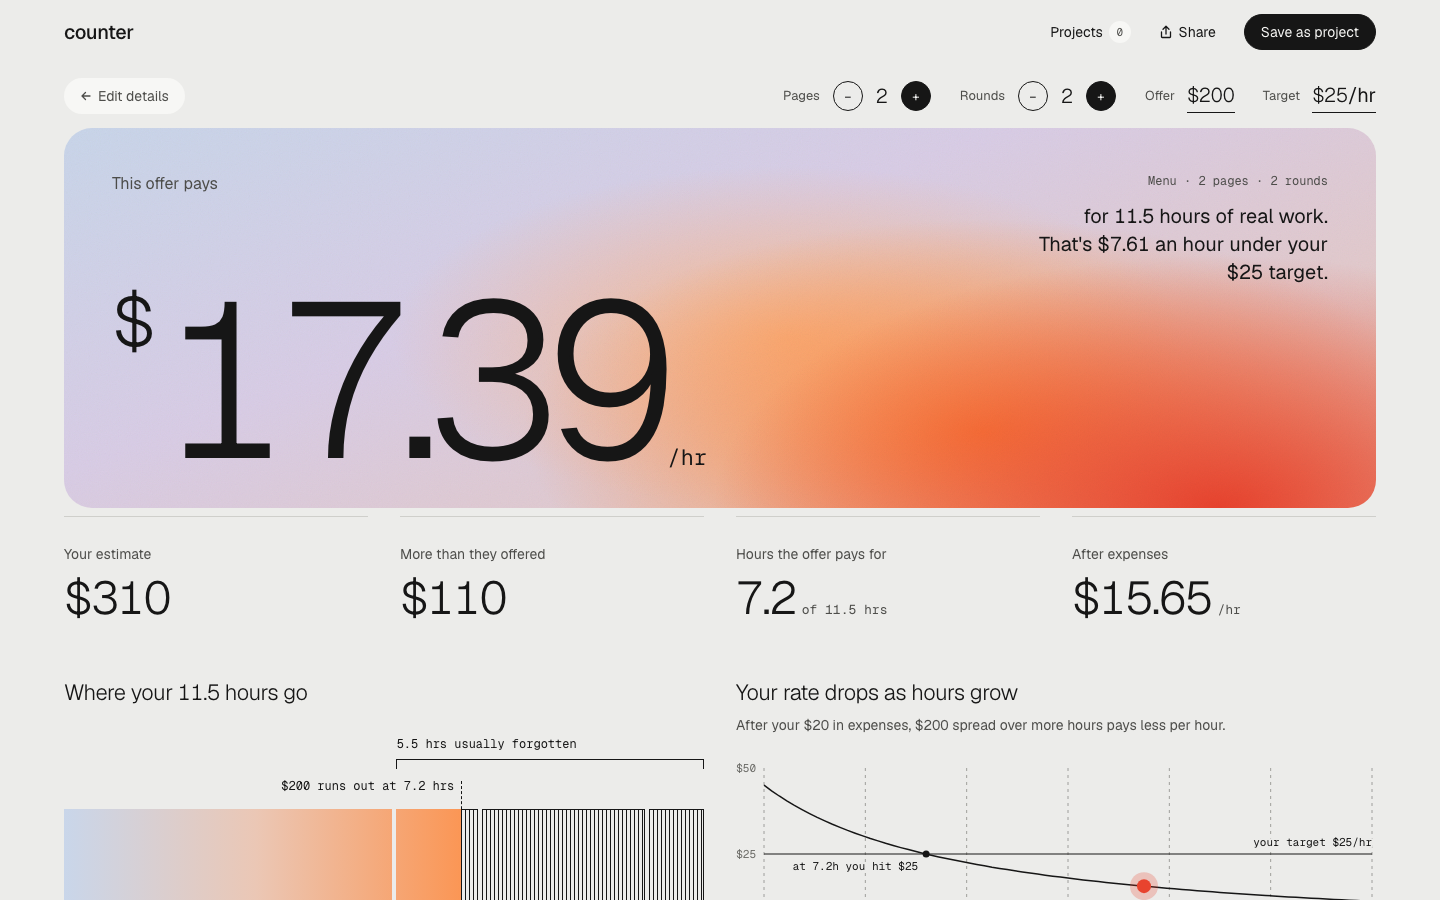
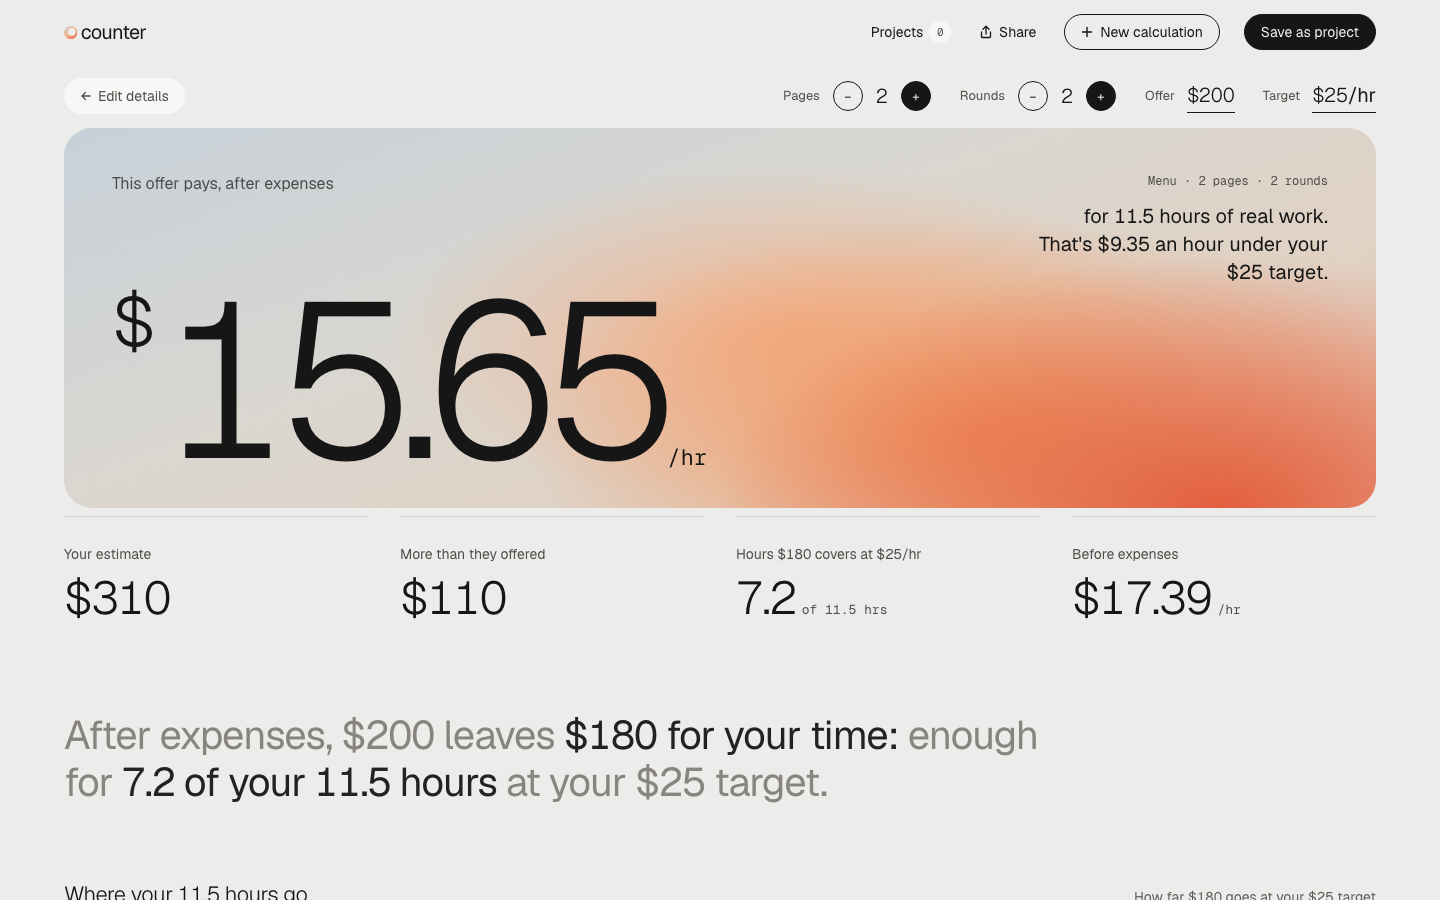
Update the README charts and result screenshots

diff --git a/README.md b/README.md
@@ -25,15 +25,15 @@ Each visual answers one question a student has while pricing a job.
 | Visual | The question it answers | Why this form |
 |---|---|---|
 | Your work so far (screen 1) | Did I count everything? | A running total and one bar by type of work, updating as you type, so forgotten hours show up before you price. |
-| Where your 11.5 hours go | Which hours does the offer pay for? | A bar per type of work: paid hours in the gradient, unpaid in stripes, a line where the money runs out, and a bracket over the usually forgotten work. |
+| Where your 11.5 hours go | How far does the offer go at my target? | One bar split where the offer, after expenses, stops covering your target rate, then the hours by task, so the work outside production is easy to see. |
 | Your rate drops as hours grow | When does this job stop paying my target? | A line chart of pay per hour against hours, crossing the target line. Drag or use arrow keys to scrub any number of hours. |
 | Ways to close the gap | What can I change? | Up to three cards, side by side on desktop, each with its option's work on one shared scale, so price and scope trade-offs compare at a glance. |
 | Your pricing so far (waterfall) | Where did my money go across every job? | The bridge chart finance teams use in earnings reports, turned into rows on smaller screens: from target pay, each job's shortfall or gain, to what you kept. Every step adds up to the dollar. |
 | Each job vs your target | Which jobs are underpriced? | A bullet chart: each job as a share of its own target, lowest first, so different targets compare on one scale. |
 
-![Counter's result screen on desktop: "This offer pays $17.39/hr" on a sunset gradient, then the estimate, the gap, and the hours the offer pays for](docs/screenshot-result-desktop.png)
+![Counter's result screen on desktop: "This offer pays, after expenses, $15.65/hr" on a sunset gradient, then the estimate, the gap, the hours $180 covers at $25/hr, and the rate before expenses](docs/screenshot-result-desktop.png)
 
-![The two result charts: "Where your 11.5 hours go", with paid hours in the gradient, unpaid hours in stripes, and "$200 runs out at 7.2 hrs"; and "Your rate drops as hours grow", a curve crossing the $25 target at 7.2 hours](docs/screenshot-charts.png)
+![The two result charts: "Where your 11.5 hours go", a bar split at "$180 covers up to here at $25/hr" into 7.2 hrs at your target and 4.3 hrs more than it covers, then the hours by task; and "Your rate drops as hours grow", a curve crossing the $25 target at 7.2 hours](docs/screenshot-charts.png)
 
 ![The Projects dashboard: "You kept 55% of your target pay" with a waterfall from $2,508 target pay to $1,370 kept, cards for unpaid hours, jobs at your target, and the biggest fix, then a bullet chart of each job against its target](docs/screenshot-dashboard.png)
 
@@ -65,7 +65,7 @@ Change: nothing to install and no account. Plain files load fast, and the fonts 
 **Chaotic real-world user:** on a phone in a hallway between classes, 17 tabs open, no patience.
 Change: the calculation autosaves, so closing the tab loses nothing. One-tap + and − buttons change the job's size (pages, posts, or seconds) and its rounds of changes without typing, and a bottom bar keeps the answer one tap away while scrolling.
 
-<img src="docs/screenshot-result-phone.png" alt="Counter's result screen on a phone: the $17.39/hr hero, one-tap steppers for pages and rounds, and the stats" width="390">
+<img src="docs/screenshot-result-phone.png" alt="Counter's result screen on a phone: the $15.65/hr after-expenses hero, one-tap steppers for pages and rounds, and the stats" width="390">
 
 ## What else it does
 
